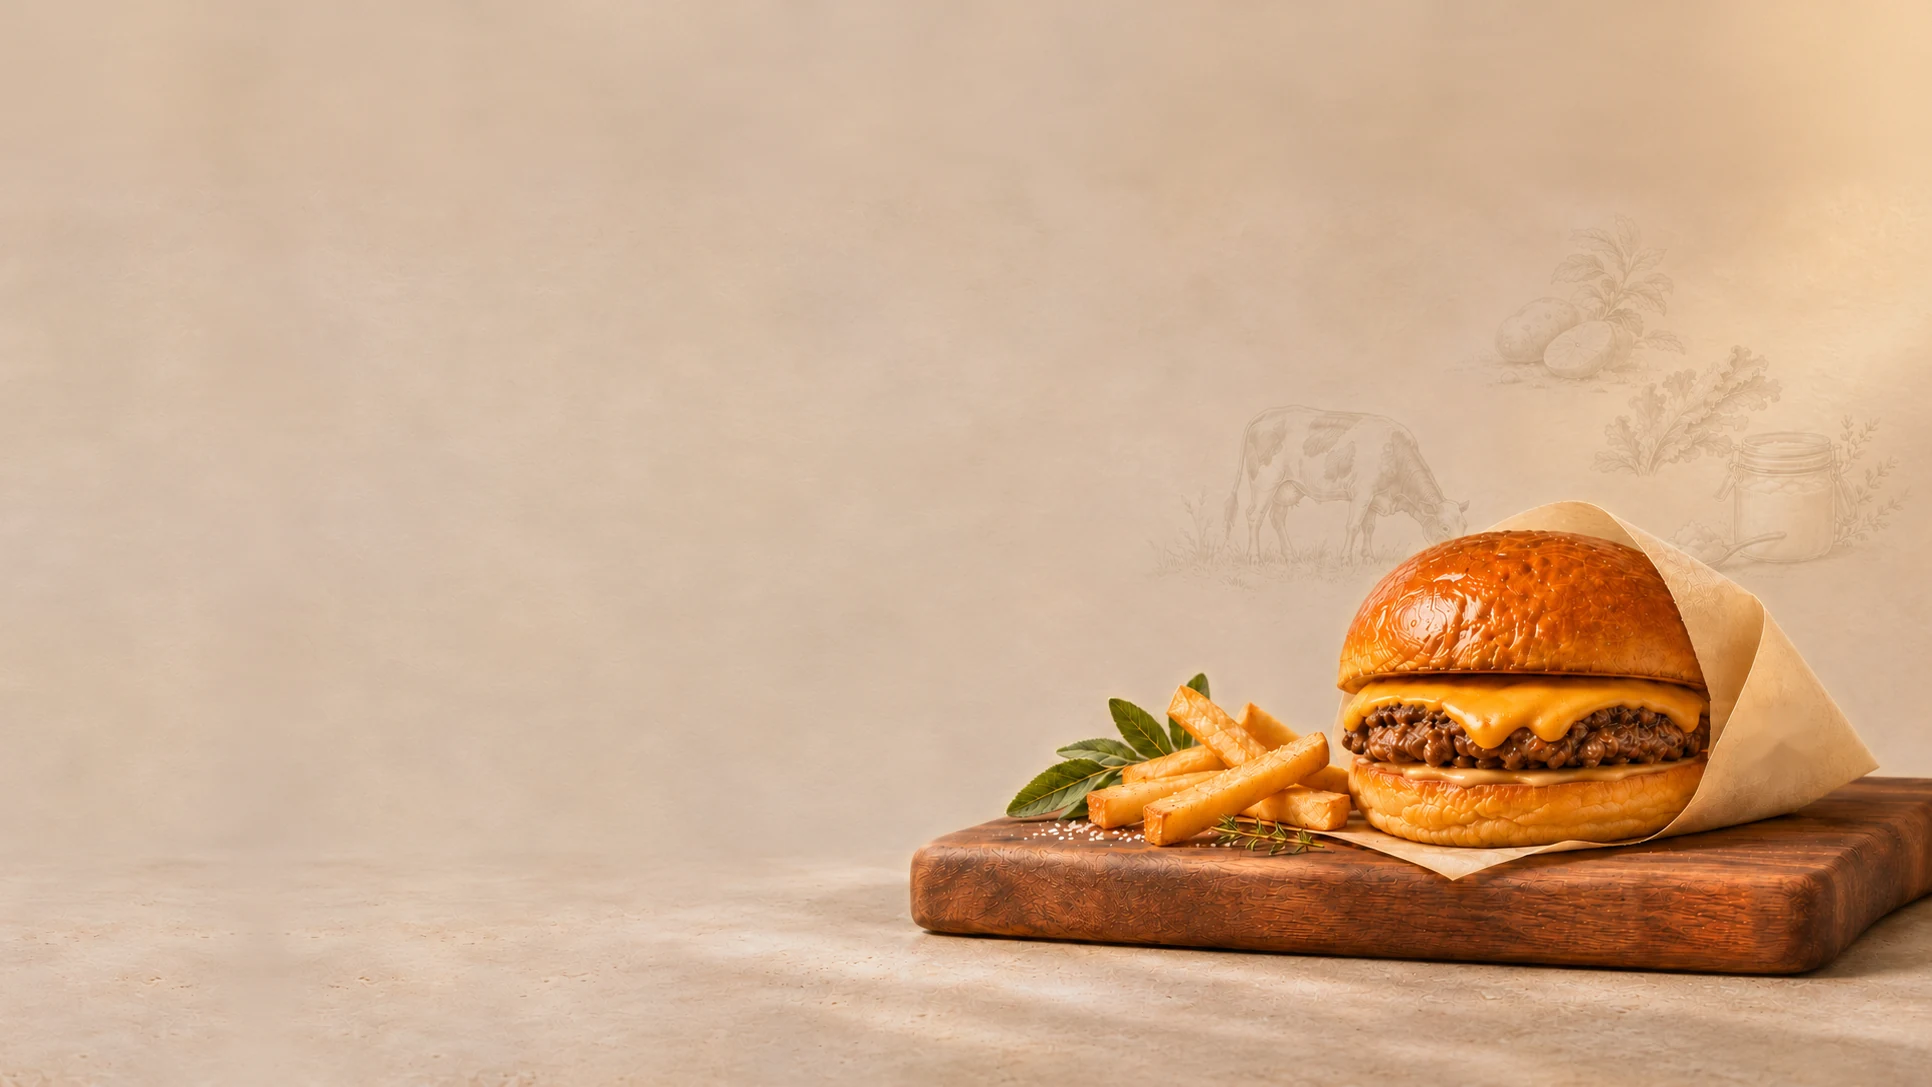
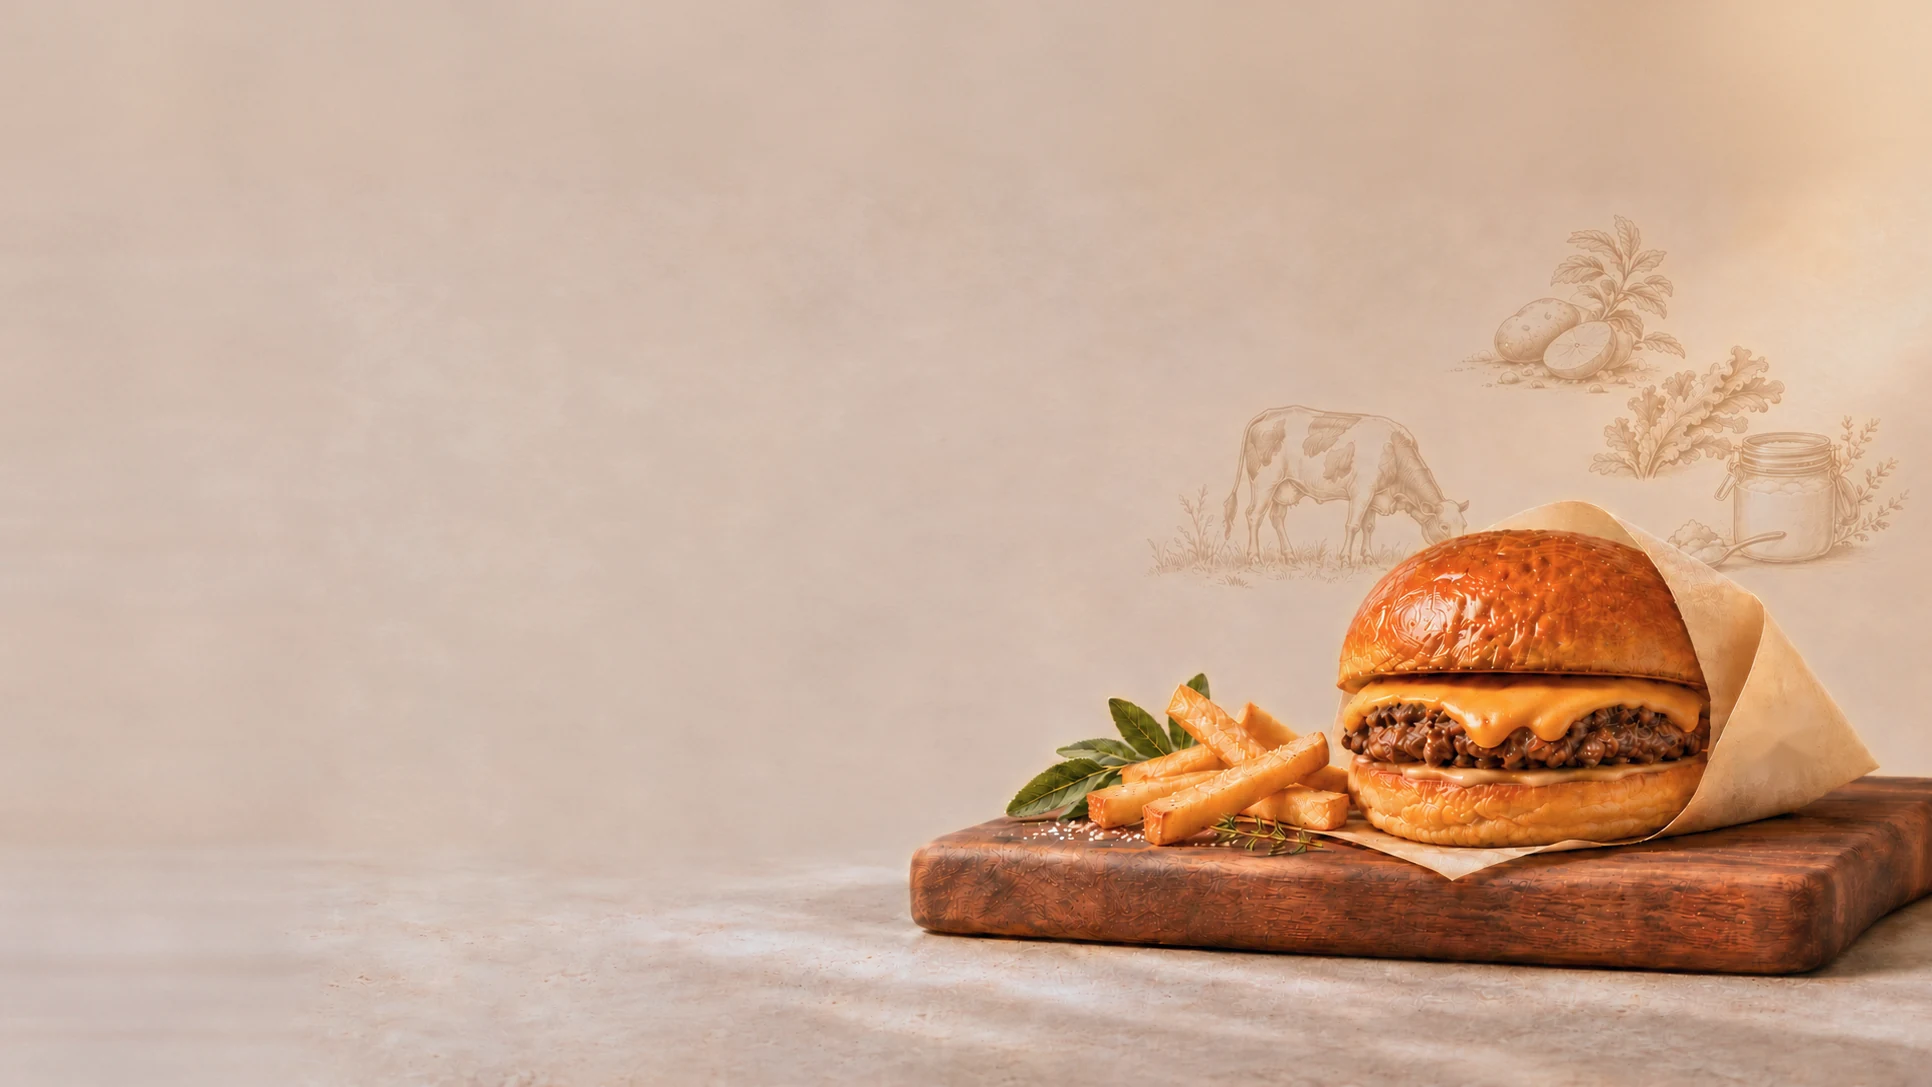
New hero with darker sketches, cooler tone; Experience copy and pink label
- Hero: client's darker-sketch images, logos removed, matched to the previous
  hero's limestone, less yellow glow; mobile header and copy blend seamlessly
- Experience: Lisa's incandescent-rich lighting and organic finishes copy,
  dustier pink eyebrow, updated lighting and materials hotspots

diff --git a/src/components/Hero.tsx b/src/components/Hero.tsx
@@ -50,7 +50,7 @@ export default function Hero() {
     <section
       id="top"
       aria-labelledby="hero-title"
-      className={`relative flex flex-col overflow-hidden bg-[linear-gradient(#d8bda0,#d7bca4_55%)] pt-[var(--header-h)] md:h-[calc(100vw*940/1932)] md:max-h-[calc(100svh-130px)] md:min-h-[570px] md:justify-center md:bg-none md:bg-[#d2b9a5] md:pt-[var(--header-h)] ${
+      className={`relative flex flex-col overflow-hidden bg-[linear-gradient(90deg,#d0c4bd,#d1baaa_45%,#d1bbac)] pt-[var(--header-h)] md:h-[calc(100vw*940/1932)] md:max-h-[calc(100svh-130px)] md:min-h-[570px] md:justify-center md:bg-none md:bg-[#d1baad] md:pt-[var(--header-h)] ${
         ready ? "hero-ready" : ""
       }`}
     >
@@ -121,17 +121,17 @@ export default function Hero() {
       </div>
 
       {/* phones: the photo comes first, the logo on its open wall, copy below */}
-      <div className="relative order-1 aspect-[1031/960] overflow-hidden md:hidden">
+      <div className="relative order-1 -mt-[7vw] aspect-[1031/996] overflow-hidden md:hidden">
         <img
           src="/images/hero-mobile.webp"
           alt={hero.imageAlt}
           width={1031}
           height={1842}
           fetchPriority="high"
-          className="hero-img -mt-[48vw] block h-auto w-full [mask-image:linear-gradient(to_bottom,transparent_27%,#000_33%,#000_76%,transparent_79%)]"
+          className="hero-img -mt-[40vw] block h-auto w-full [mask-image:linear-gradient(to_bottom,#000_73.5%,transparent_76.5%)]"
         />
         <div
-          className="hero-fade absolute left-[var(--gutter)] top-[3vw] w-[58vw] text-forest"
+          className="hero-fade absolute left-[var(--gutter)] top-[10vw] w-[52vw] text-forest"
           style={{ "--d": "300ms" } as React.CSSProperties}
         >
           <Logo className="w-full" />

diff --git a/src/content/site.ts b/src/content/site.ts
@@ -100,14 +100,14 @@ export const hotspots = [
   {
     id: "lighting",
     title: "Amber Lighting",
-    copy: "Warm amber lighting in place of blue-toned LEDs, for a softer, calmer room.",
+    copy: "Warm, incandescent-rich lighting in place of harsh blue-toned LEDs, for a softer, calmer room.",
     wide: { x: 53.2, y: 25.8 },
     tall: { x: 53.2, y: 25.8 },
   },
   {
     id: "materials",
     title: "Natural Materials",
-    copy: "Real wood, sealed concrete and natural paints. Bamboo trays in place of plastic, and no aerosol sprays.",
+    copy: "Real wood, sealed concrete and organic finishes, with non-toxic paint throughout. Bamboo trays in place of plastic, and no aerosol sprays.",
     wide: { x: 21.5, y: 68 },
     tall: { x: 21.5, y: 68 },
   },
@@ -130,7 +130,7 @@ export const hotspots = [
 export const experience = {
   eyebrow: "The Experience",
   headline: ["A Space", "That Feels Good"],
-  copy: "Warm lighting, natural materials, and thoughtfully designed details create a welcoming environment that elevates the everyday.",
+  copy: "From clean ingredients and organic finishes to warm, incandescent-rich lighting, every detail at Mr. Tallow's is intentional. We've created a space that feels as good as the food tastes.",
   imageAlt: "The Mr. Tallow's dining room: menu boards above an open kitchen and tiled counter, cone pendant lights, a long walnut table, leather banquettes and an arched window",
 };
 

diff --git a/src/components/Header.tsx b/src/components/Header.tsx
@@ -64,7 +64,7 @@ export default function Header() {
     <header
       className={`fixed inset-x-0 top-0 z-50 transition-[transform,background-color,box-shadow] duration-500 ease-[var(--ease-luxe)] will-change-transform ${
         hidden && !open ? "-translate-y-full" : ""
-      } ${solid ? `bg-[#dbcbb8] ${open ? "shadow-none" : "shadow-[0_1px_0_rgba(42,37,31,0.08)]"}` : "bg-[#d8bda0] shadow-none md:bg-[#dbcbb8]/0"}`}
+      } ${solid ? `bg-[#dbcbb8] ${open ? "shadow-none" : "shadow-[0_1px_0_rgba(42,37,31,0.08)]"}` : "bg-[linear-gradient(90deg,#ccb9a9_0%,#cab7a8_20%,#cdbaaa_40%,#d6c0ad_55%,#dcc4ae_70%,#dfc8b1_85%,#d2bba7_100%)] shadow-none md:bg-none md:bg-[#dbcbb8]/0"}`}
     >
       <a
         href="#main"

diff --git a/src/components/ExperienceHotspots.tsx b/src/components/ExperienceHotspots.tsx
@@ -266,7 +266,7 @@ export default function ExperienceHotspots() {
         </div>
 
         <div className="relative z-10 order-first px-[var(--gutter)] pb-8 pt-[clamp(2.5rem,5vw,3.5rem)] lg:order-none lg:flex lg:flex-col lg:justify-center lg:px-[clamp(1.75rem,3vw,3.25rem)] lg:py-8">
-          <p className="eyebrow mb-4 text-[#e6c9c3]" data-reveal>
+          <p className="eyebrow mb-4 text-[#d4a7a2]" data-reveal>
             {experience.eyebrow}
           </p>
           <h2 id="experience-title" className="display text-[clamp(2.3rem,3.2vw,3.3rem)] text-cream" data-reveal-group>
